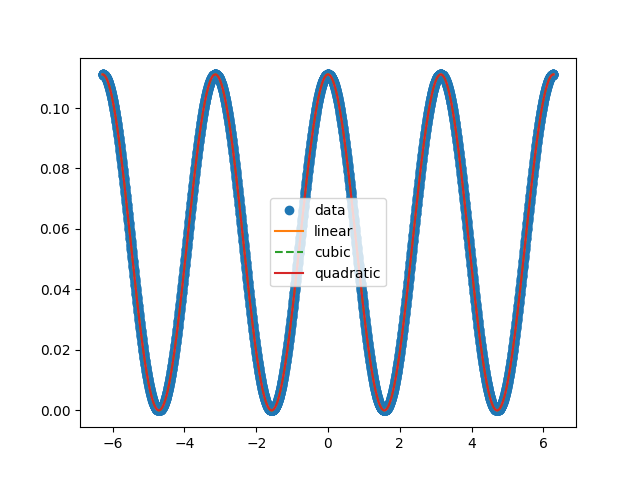
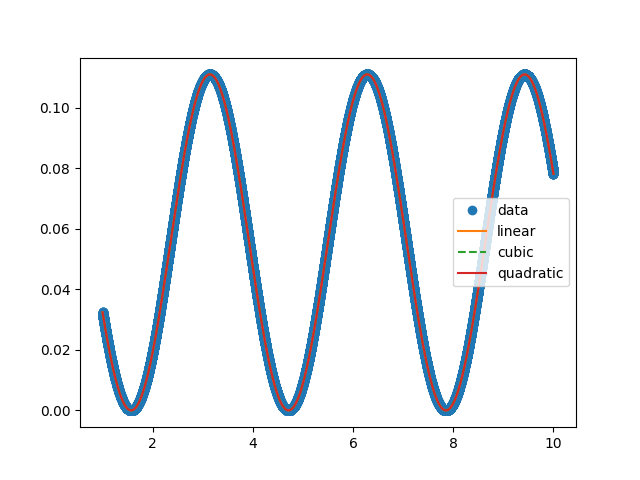
GUI_Python&Julia

diff --git a/GUI_in.py b/GUI_in.py
@@ -1,19 +1,13 @@
 #PyQt5
 import sys
+from tracemalloc import stop
 from PyQt5.QtWidgets import *
 from PyQt5 import QtGui
 from PyQt5.QtGui import *
 from PyQt5.QtCore import *
 
-#Numpy
-import datetime
-import numpy as np
-import matplotlib.pyplot as plt
-import scipy.interpolate as interpolate
-from scipy.interpolate import interp1d
-from scipy.interpolate import lagrange
-
 from Backend import interpolate
+from Gui_Julia import Julia
 
 class Plot_interpolate(QWidget):
     def __init__(self): 
@@ -22,72 +16,156 @@ class Plot_interpolate(QWidget):
         self.Creater()
         
 
-    def interpolate(self):
+    def Getvalue(self):
+        strat = int(self.inputbox.text())
+        stop = int(self.inputbox1.text())
+        step = int(self.inputbox2.text())
+        print(strat,stop,step)
 
-        self.gettime = interpolate()
+        self.gettime = interpolate(strat,stop,step)
+        self.gettime1 = Julia(strat,stop,step)
+
         self.bro2.clear()                   #bro2 is Linear interpolat
         self.bro2.append(self.gettime[0])
+        self.bro2_J.clear()                   #bro2 is Linear interpolat
+        self.bro2_J.append(self.gettime1[0])
 
         self.bro3.clear()                   #bro3 is Cubic interpolat
         self.bro3.append(self.gettime[1]) 
+        self.bro3_J.clear()                   #bro2 is Linear interpolat
+        self.bro3_J.append(self.gettime1[1])
 
         self.bro4.clear()                   #bro3 is Quadratic interpolat
         self.bro4.append(self.gettime[2])
+        self.bro4_J.clear()                   #bro2 is Linear interpolat
+        self.bro4_J.append(self.gettime1[2])
         
         
-        self.bro1.setStyleSheet('border-image:url(C:/Users/Computer/Desktop/python/Intepolation/my_plot.png);')
+        self.bro1.setStyleSheet('border-image:url(my_plot.png);')
+        self.bro1_J.setStyleSheet('border-image:url(plot_julia.png);')
 
     def Creater(self):
         self.setWindowTitle("Interpolation")
-        self.resize(900,500)
+        self.resize(1500,500)
         self.move(300,30)
 
         #creating button QPushButton
         self.button = QPushButton("Interpolate",self)
         self.button.resize(200,30)
-        self.button.move(50,100)
-        self.button.clicked.connect(self.interpolate)
+        self.button.move(700,250)
+        self.button.clicked.connect(self.Getvalue)
         self.button.setFont(QtGui.QFont("Helvetica",14))
 
-        
-        #linear time 
-        self.label_0 = QLabel('Linear time: ',self)
-        self.label_0.move(50, 350)
+        # Input Start 
+        self.label_0 = QLabel('Start point: ',self)
+        self.label_0.move(680, 70)
+        self.label_0.setFont(QtGui.QFont("Helvetica",14))
+        # Input Stop 
+        self.label_0 = QLabel('Stop point: ',self)
+        self.label_0.move(680, 120)
+        self.label_0.setFont(QtGui.QFont("Helvetica",14))
+        # Input Step 
+        self.label_0 = QLabel('Step point: ',self)
+        self.label_0.move(680, 170)
         self.label_0.setFont(QtGui.QFont("Helvetica",14))
 
-        #Cubic time 
-        self.label_0 = QLabel('Cubic time : ',self)
-        self.label_0.move(50, 400)
+        #Inputbox Start
+        self.inputbox = QLineEdit(self)
+        self.inputbox.resize(100,30)
+        self.inputbox.move(800,70)
+        self.inputbox.setFont(QtGui.QFont("Helvetica",16))
+        #Inputbox Stop
+        self.inputbox1 = QLineEdit(self)
+        self.inputbox1.resize(100,30)
+        self.inputbox1.move(800,120)
+        self.inputbox1.setFont(QtGui.QFont("Helvetica",16))
+        #Inputbox Step
+        self.inputbox2 = QLineEdit(self)
+        self.inputbox2.resize(100,30)
+        self.inputbox2.move(800,170)
+        self.inputbox2.setFont(QtGui.QFont("Helvetica",16))
+
+        #Python time 
+        self.label_0 = QLabel('Python: ',self)
+        self.label_0.move(80, 350)
+        self.label_0.setFont(QtGui.QFont("Helvetica",14))
+        #Julia time 
+        self.label_0 = QLabel('Julia: ',self)
+        self.label_0.move(950, 350)
         self.label_0.setFont(QtGui.QFont("Helvetica",14))
 
-        #Quadratic time 
-        self.label_0 = QLabel('Quadratic time : ',self)
-        self.label_0.move(50, 450)
-        self.label_0.setFont(QtGui.QFont("Helvetica",14))
+        #Python linear time 
+        self.label_1 = QLabel('Linear time: ',self)
+        self.label_1.move(180, 350)
+        self.label_1.setFont(QtGui.QFont("Helvetica",14))
+        #Julia linear time 
+        self.label_1 = QLabel('Linear time: ',self)
+        self.label_1.move(1050, 350)
+        self.label_1.setFont(QtGui.QFont("Helvetica",14))
+
+        #Python Cubic time 
+        self.label_1 = QLabel('Cubic time : ',self)
+        self.label_1.move(180, 400)
+        self.label_1.setFont(QtGui.QFont("Helvetica",14))
+        #Julia Cubic time 
+        self.label_1 = QLabel('Cubic time: ',self)
+        self.label_1.move(1050, 400)
+        self.label_1.setFont(QtGui.QFont("Helvetica",14))
+
+        #Julia Quadratic time 
+        self.label_1 = QLabel('Quadratic time : ',self)
+        self.label_1.move(180, 450)
+        self.label_1.setFont(QtGui.QFont("Helvetica",14))
+        #Julia Quadratic time 
+        self.label_1 = QLabel('Quadratic time: ',self)
+        self.label_1.move(1050, 450)
+        self.label_1.setFont(QtGui.QFont("Helvetica",14))
         
-        #TextBrower Graph
+        #TextBrower Python Graph
         self.bro1 = QTextBrowser(self)
         self.bro1.resize(500,320)
-        self.bro1.move(300,10)
+        self.bro1.move(70,10)
         self.bro1.setFont(QtGui.QFont("Helvetica",12))
+        
+        #TextBrower JuliaGraph
+        self.bro1_J = QTextBrowser(self)
+        self.bro1_J.resize(500,320)
+        self.bro1_J.move(950,10)
+        self.bro1_J.setFont(QtGui.QFont("Helvetica",12))
 
         #TextBrower time
         self.bro2 = QTextBrowser(self)
         self.bro2.resize(200,30)
-        self.bro2.move(200,350)
+        self.bro2.move(350,350)
         self.bro2.setFont(QtGui.QFont("Helvetica",12))
+        #TextBrower time
+        self.bro2_J = QTextBrowser(self)
+        self.bro2_J.resize(250,30)
+        self.bro2_J.move(1220,350)
+        self.bro2_J.setFont(QtGui.QFont("Helvetica",12))
 
         #TextBrower time
         self.bro3 = QTextBrowser(self)
         self.bro3.resize(200,30)
-        self.bro3.move(200,400)
+        self.bro3.move(350,400)
         self.bro3.setFont(QtGui.QFont("Helvetica",12))
+        #TextBrower time
+        self.bro3_J = QTextBrowser(self)
+        self.bro3_J.resize(250,30)
+        self.bro3_J.move(1220,400)
+        self.bro3_J.setFont(QtGui.QFont("Helvetica",12))
 
         #TextBrower time
         self.bro4 = QTextBrowser(self)
         self.bro4.resize(200,30)
-        self.bro4.move(250,450)
+        self.bro4.move(350,450)
         self.bro4.setFont(QtGui.QFont("Helvetica",12))
+        #TextBrower time
+        self.bro4_J = QTextBrowser(self)
+        self.bro4_J.resize(250,30)
+        self.bro4_J.move(1220,450)
+        self.bro4_J.setFont(QtGui.QFont("Helvetica",12))
+        
 
     def show_exit(self):
         self.show()

diff --git a/Backend.py b/Backend.py
@@ -6,14 +6,14 @@ import scipy.interpolate as interpolate
 from scipy.interpolate import interp1d
 from scipy.interpolate import lagrange
 
+from GUI_in import*
+
+
 def fx(x):
     return np.cos(-x)**2/9.0
 
-def interpolate():
+def interpolate(start,stop,step):
 
-    start = -2*np.pi
-    stop = 2*np.pi
-    step = 5000
     x = np.linspace(start, stop, num=step, endpoint=True)
     y = fx(x)
 
@@ -43,5 +43,6 @@ def interpolate():
     plt.savefig('my_plot.png')
     return [str(time_li),str(time_cubic),str(time_qu)]
 
-interpolate()
+if __name__ == "__main__":
+    interpolate(0,100,1000)
 

diff --git a/Gui_Julia.py b/Gui_Julia.py
@@ -1,0 +1,28 @@
+from unittest import result
+import julia
+import csv
+
+from GUI_in import*
+
+def Julia(start,stop,step):
+    j = julia.Julia()
+    x = j.include("Interpolate.jl")
+
+    from julia import Main
+    x = Main.main(start,stop,step)
+    #getcsv()
+    
+
+#def getcsv():
+    mycsv = csv.reader(open('time_response.csv'))
+    text = []
+    for row in mycsv:
+        text.append(row)
+    result = text[1]
+    print(result)
+    return result
+
+
+if __name__ == "__main__":
+    Julia(0,10,50000)
+    #getcsv()
